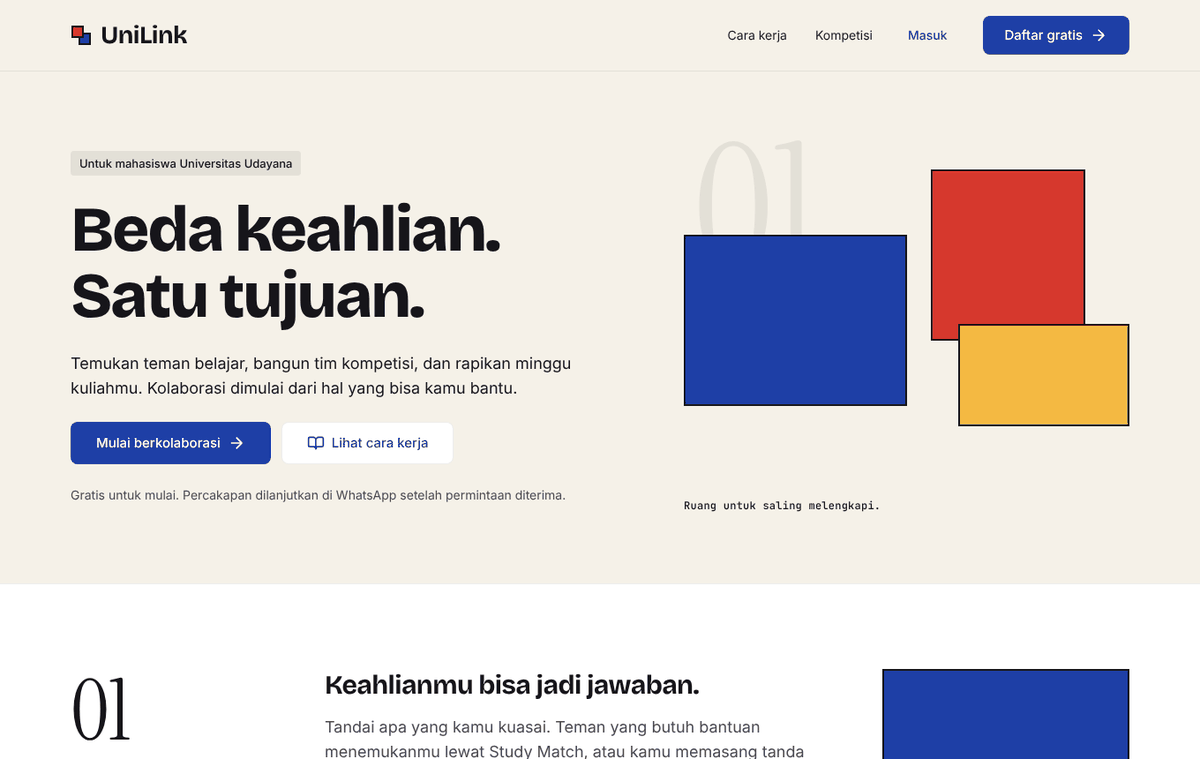
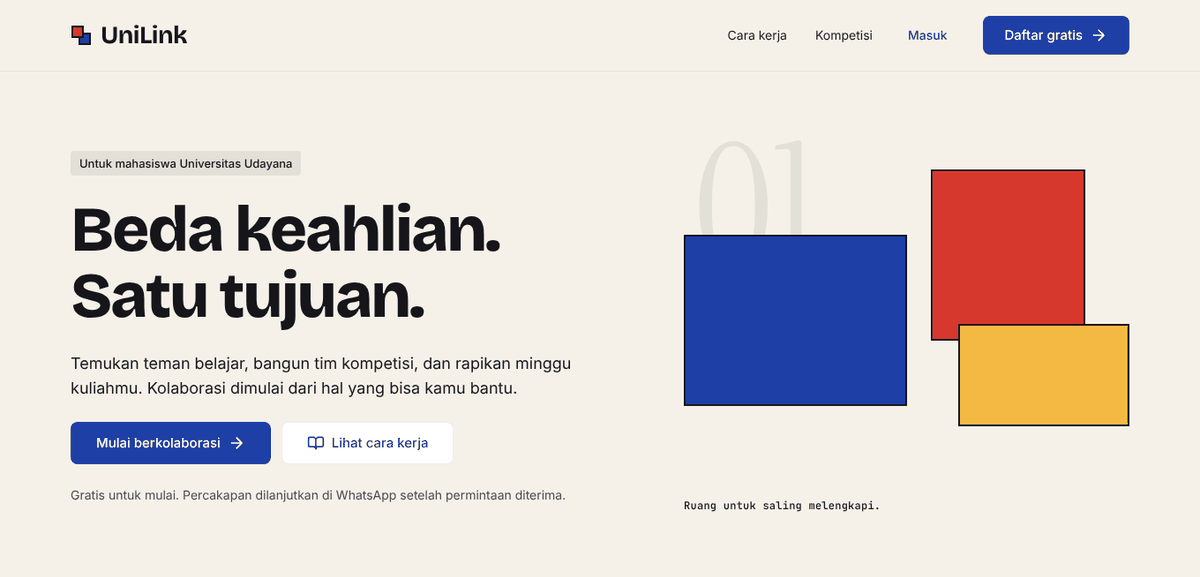
docs: Add Figma design link and update landing screenshot

diff --git a/README.md b/README.md
@@ -4,7 +4,6 @@ A small web app for Universitas Udayana students: find someone to study with, po
 
 ![Landing page](docs/screens/landing.png)
 
-The one rule that shapes everything: **phone numbers stay hidden until a request is accepted.** After that, the other person gets your number and a WhatsApp link. There is no chat inside the app on purpose.
 
 ## Run it
 
@@ -81,6 +80,14 @@ docs/       screenshots
 ```
 
 Stack: Nuxt 4, UnoCSS, Pinia, Drizzle, PostgreSQL, zod, jose, vue-sonner. The visual design is a De Stijl take from Figma: flat colour blocks, thick outlines, nothing glossy.
+
+### Design file
+
+The full De Stijl design lives in Figma — colours, type scale, spacing, and every screen side by side.
+
+[![Figma design file](https://img.shields.io/badge/Figma-UniLink%20Design%20File-F24E1E?logo=figma&logoColor=white)](https://www.figma.com/design/cHIZSLnr7xjhSCfHojQg0M/UniLink---TecFest-2026?node-id=0-1&t=b8fmiaUEH7HvyLXl-1)
+
+<iframe style="border:1px solid #1a1a1a; border-radius:0;" width="100%" height="480" src="https://www.figma.com/embed?embed_host=share&url=https://www.figma.com/file/YOUR_FILE_ID/UniLink?node-id=0%3A1" allowfullscreen></iframe>
 
 ## API
 
